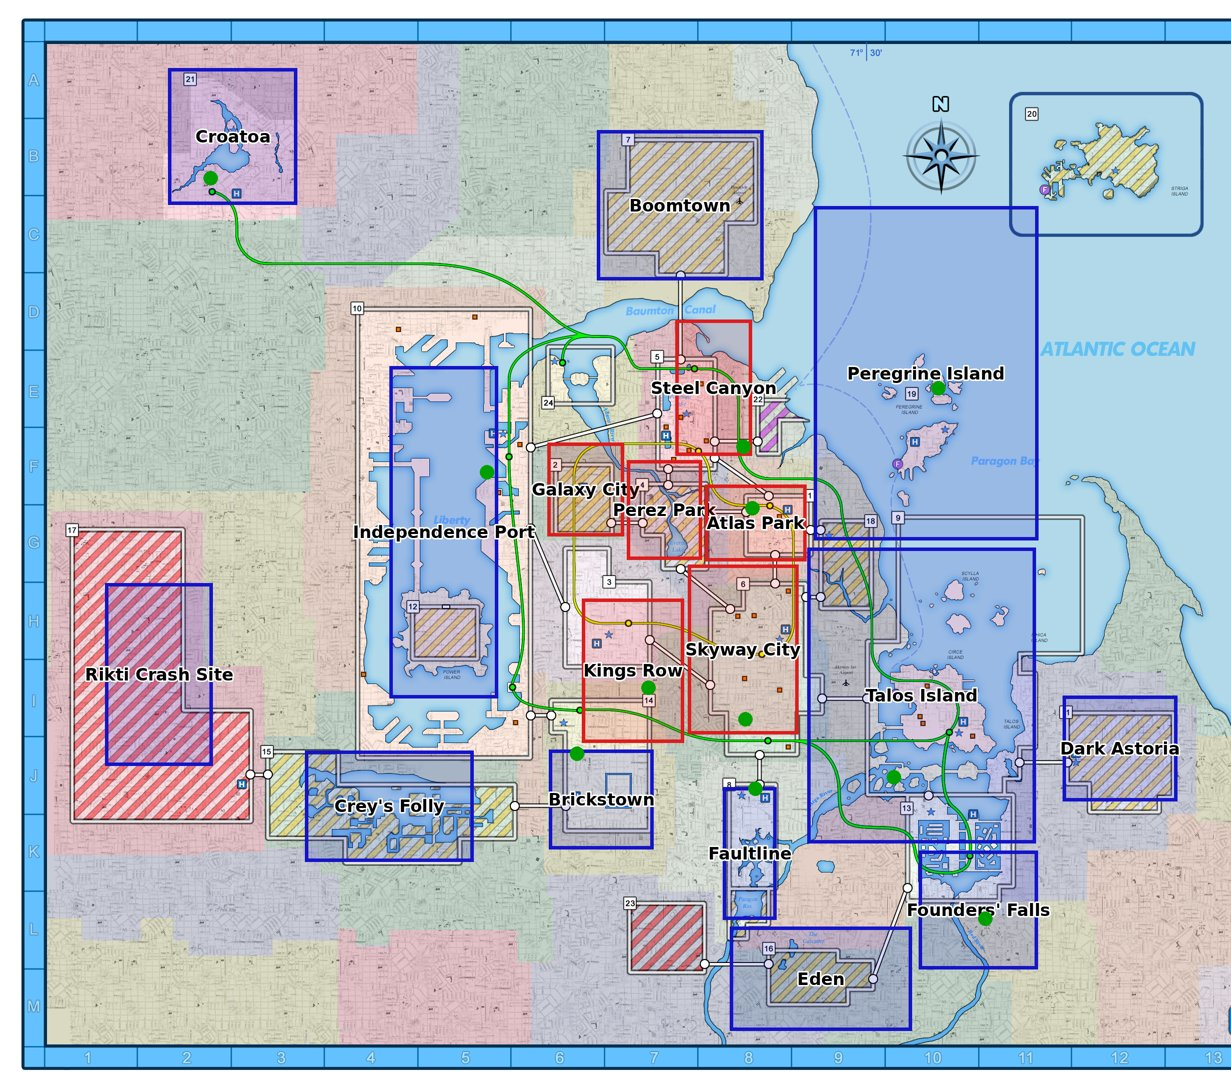
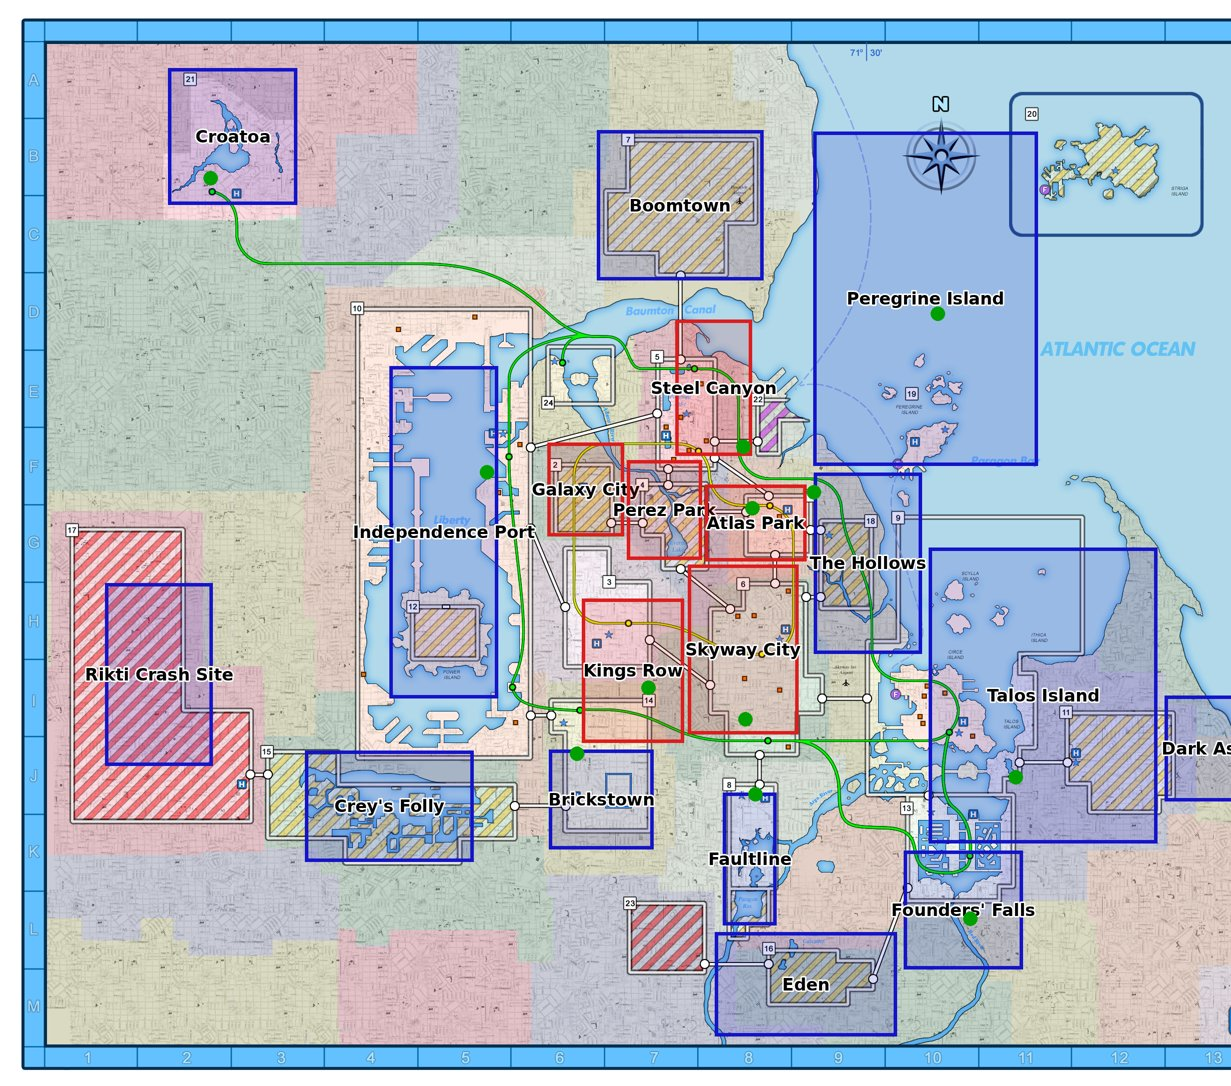
Place the Hollows on map box 18 east of Atlas Park
The Hollows ranks ahead of Talos in overlap nudging, so Talos, Peregrine
and Dark Astoria give way instead of the Hollows.

Claude-Session: https://claude.ai/code/session_01NfWhMgUv54ca5WDN3KsVwk

diff --git a/tools/zones/place_all.py b/tools/zones/place_all.py
@@ -22,9 +22,9 @@ MAP={ # zone id: (map number, display box center)
  "hazard_02_01":(7,(812,245)),"city_02_05":(8,(895,1025)),"city_03_01":(9,(1100,830)),
  "city_03_02":(10,(530,635)),"hazard_03_01":(11,(1337,893)),"city_04_01":(13,(1150,1012)),
  "city_04_02":(14,(718,912)),"hazard_03_02":(15,(465,962)),"hazard_04_01":(16,(980,1168)),
- "trial_05_01":(17,(190,805)),"city_05_01":(19,(1105,520)),"city_03_03":(21,(278,163)),
+ "trial_05_01":(17,(190,805)),"city_05_01":(19,(1105,520)),"hazard_01_02":(18,(1010,672)),"city_03_03":(21,(278,163)),
 }
-NAMES={1:"Atlas Park",2:"Galaxy City",3:"Kings Row",4:"Perez Park",5:"Steel Canyon",6:"Skyway City",7:"Boomtown",8:"Faultline",9:"Talos Island",10:"Independence Port",11:"Dark Astoria",13:"Founders' Falls",14:"Brickstown",15:"Crey's Folly",16:"Eden",17:"Rikti Crash Site",19:"Peregrine Island",21:"Croatoa"}
+NAMES={1:"Atlas Park",2:"Galaxy City",3:"Kings Row",4:"Perez Park",5:"Steel Canyon",6:"Skyway City",7:"Boomtown",8:"Faultline",9:"Talos Island",10:"Independence Port",11:"Dark Astoria",13:"Founders' Falls",14:"Brickstown",15:"Crey's Folly",16:"Eden",17:"Rikti Crash Site",18:"The Hollows",19:"Peregrine Island",21:"Croatoa"}
 def center(z):
     b=B[z]["bounds_ft"]; return ((b[0]+b[2])/2*FT,(b[1]+b[3])/2*FT)
 # fit x = a - k*u, z = b + k*v using inner ring world centers
@@ -60,17 +60,21 @@ st=json.load(open("stations.json"))
 for z,v in out["zones"].items():
     if "station" not in v and z in st:
         s=st[z]; o=v["offset_m"]; v["station"]={"local_m":s["local_m"],"world_m":[round(s["local_m"][0]+o[0],1),s["local_m"][1],round(s["local_m"][2]+o[1],1)],"game_yaw_deg":s["game_yaw_deg"]}
-# separate overlaps: inner ring and Talos stay, others move along the
-# shorter overlap axis, away from the fixed zone, plus a 100 m road gap
-FIXED=set(Z["zones"])|{"city_03_01"}
+# separate overlaps: lower rank stays, higher rank moves along the shorter
+# overlap axis, away from the other zone, plus a 100 m road gap. Inner ring
+# first, then the Hollows (owns map box 18 east of Atlas, per Robert), then
+# Talos, then the rest in list order.
+FIXED=set(Z["zones"])
+RANK={z:0 for z in FIXED}; RANK.update({"hazard_01_02":1,"city_03_01":2})
 GAP=100.0
 for it in range(50):
     moved=False
     ks=list(out["zones"])
     for p in ks:
         for q in ks:
-            if p==q or q in FIXED and p in FIXED: continue
-            if p in FIXED or (q not in FIXED and ks.index(q)<ks.index(p)): continue
+            if p==q: continue
+            rp,rq=(RANK.get(p,3),ks.index(p)),(RANK.get(q,3),ks.index(q))
+            if p in FIXED or rq>rp: continue
             A_=out["zones"][q]["world_rect_m"];B_=out["zones"][p]["world_rect_m"]
             w=min(A_[2],B_[2])-max(A_[0],B_[0]); h=min(A_[3],B_[3])-max(A_[1],B_[1])
             if w>-GAP and h>-GAP:
